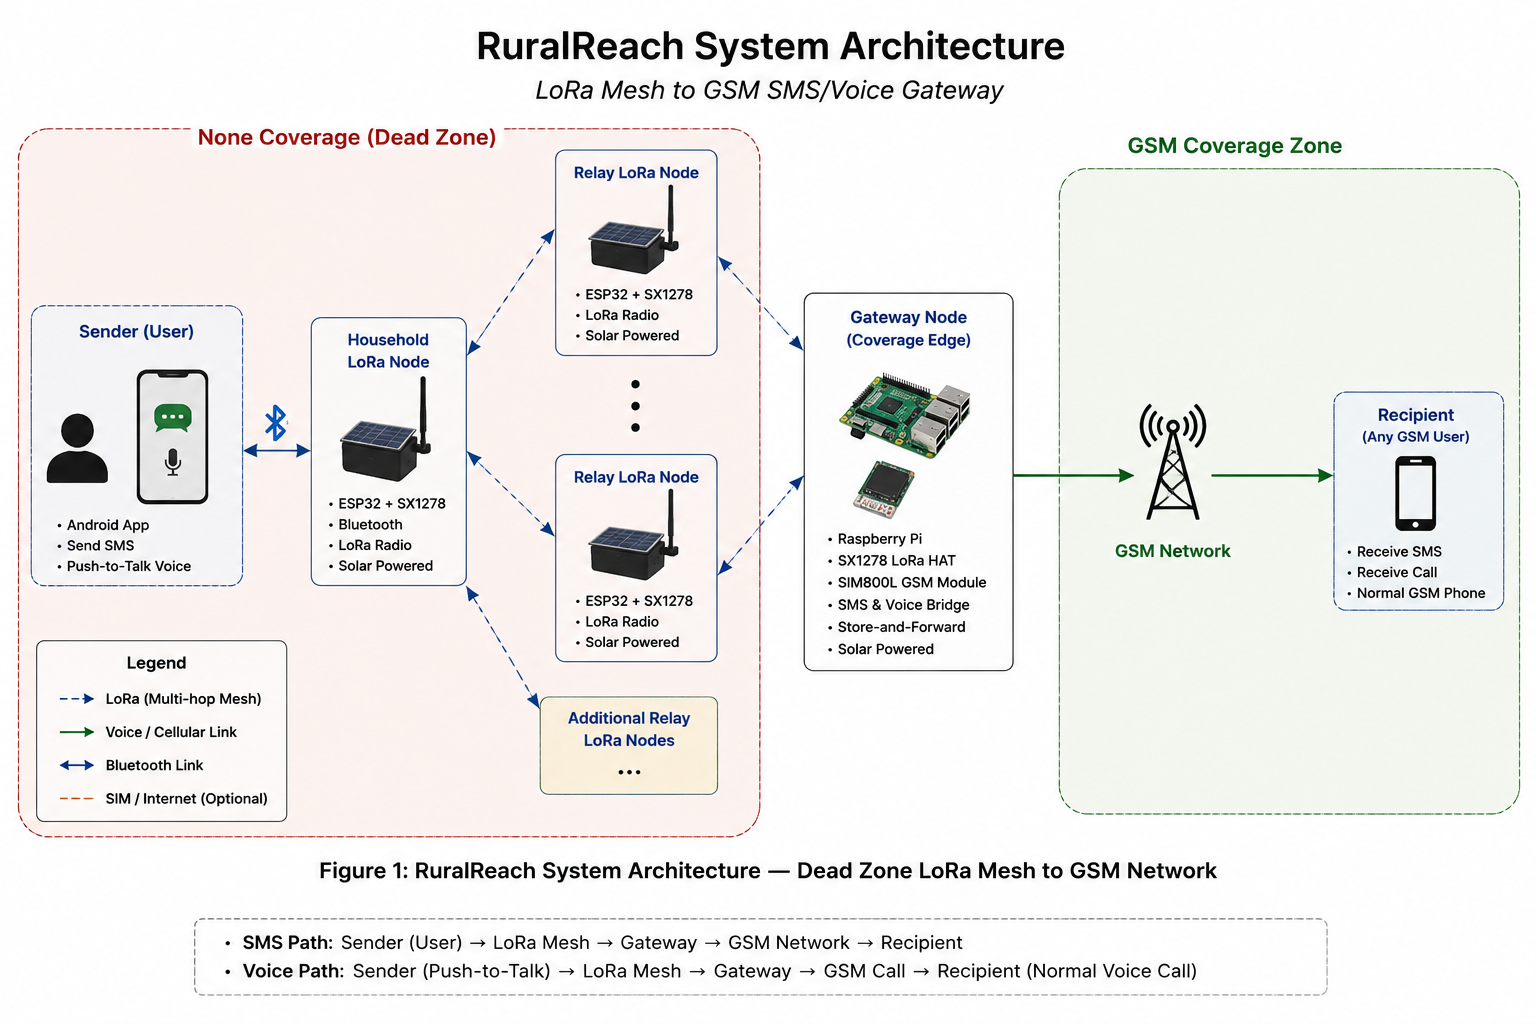
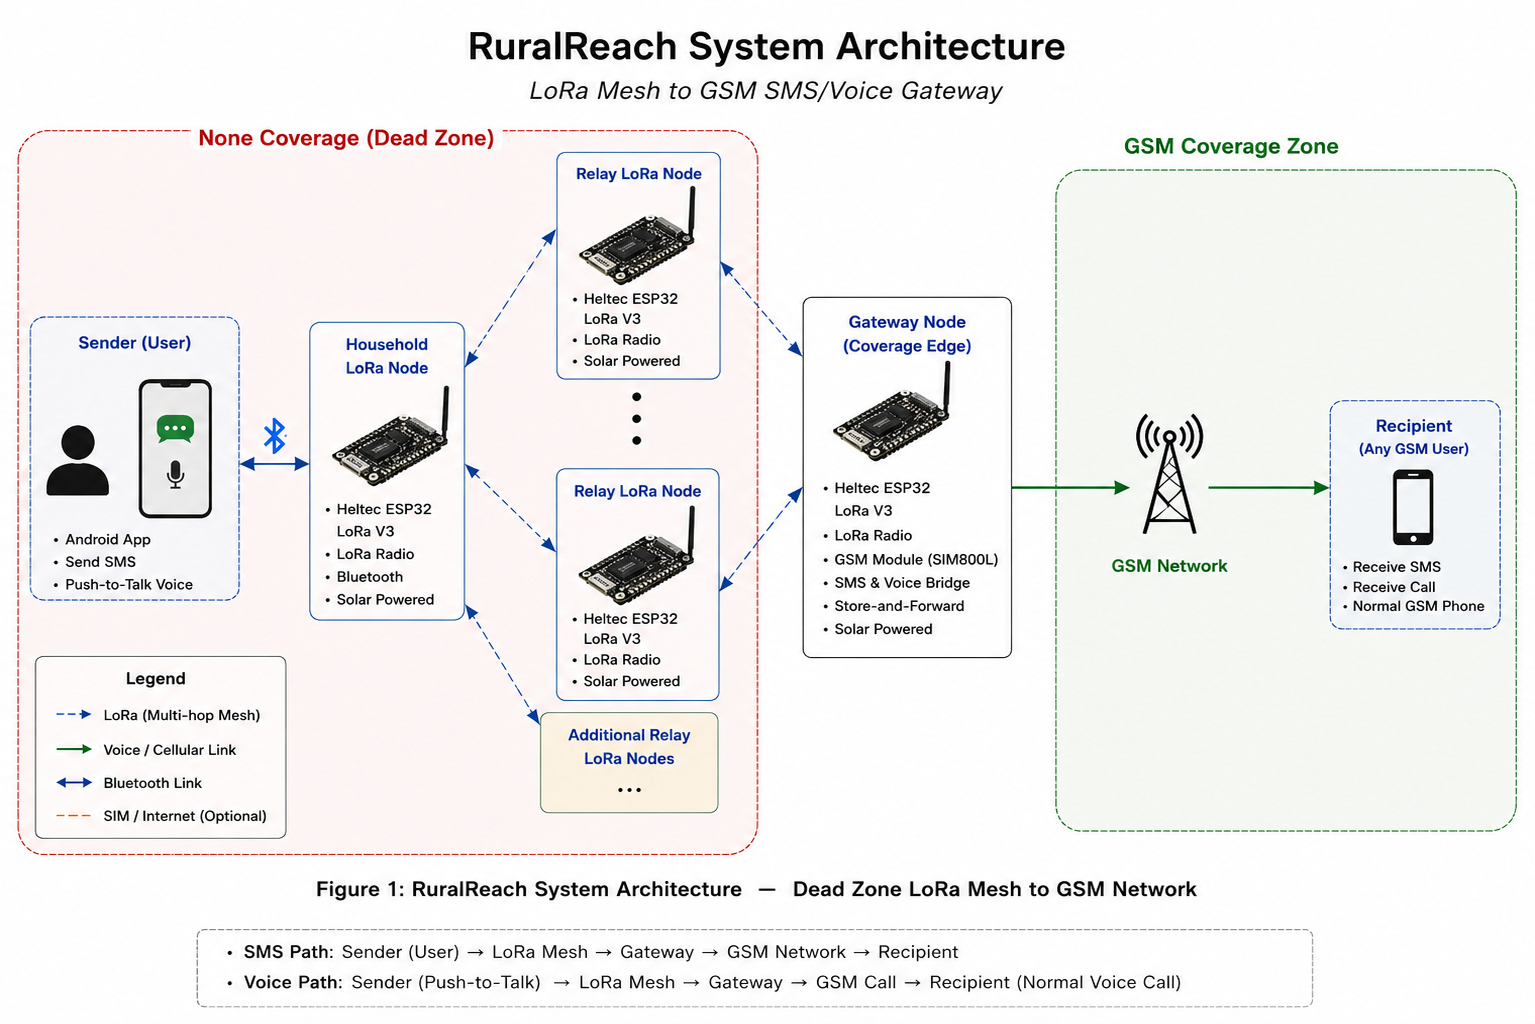
updated readme file

diff --git a/README.md b/README.md
@@ -11,7 +11,7 @@
 |---|---|
 |  **GitHub repository** | https://github.com/ramadhaniwanjenja/RuralREACH |
 |  **5‑minute demo video** | https://www.youtube.com/watch?v=xAKuP7hi1q4 |
-|  **Installable app (APK)** | `ruralreach_app/build/app/outputs/flutter-apk/app-release.apk` (built via `flutter build apk`) |
+|  **Installable app (APK)** | https://drive.google.com/file/d/1Qzdi7x9OukgJJwdIaHv1YReMy6TMlLwY/view?usp=sharing|
 
 >  **How to read this document:** Sections **1–6** describe the product and how to run it,
 > Section **7** is the **deployment plan & execution**, Section **8** is the **testing results
@@ -75,7 +75,7 @@ is compressed with **Codec2 (1300 bps)** to fit inside LoRa's tiny bandwidth.
 
 | Node circuit | Gateway circuit |
 |---|---|
-| ![Node schematic](designs/hardware/LoRa_node/LoRa_node.png) | ![Gateway schematic](designs/hardware/Gateway_node/Gatewaynode.png) |
+| ![Node schematic](designs/hardware/LoRa_node/LoRa_node-Schematic.png) | ![Gateway schematic](designs/hardware/Gateway_node/Gatewaynode_schematic.png) |
 
 **Companion app UI (Figma):**
 
@@ -232,7 +232,7 @@ rm -f sdkconfig && idf.py set-target esp32s3 && idf.py build
 idf.py -p /dev/ttyUSB1 flash monitor
 ```
 
-> ⚡ Power the SIM800L from its **own** 3.7–4.2 V ≥2 A supply with a common ground — under‑powering
+>  Power the SIM800L from its **own** 3.7–4.2 V ≥2 A supply with a common ground — under‑powering
 > it is the #1 cause of a modem that won't answer AT commands.
 
 **Radio settings (must match on both boards):** 433 MHz · SF7 · BW 125 kHz · CR 4/5 · sync word
@@ -275,7 +275,7 @@ Testing used **four complementary strategies**: (a) **unit / self‑test** in fi
 **field / environmental** RF tests. Each test below was run with **different data values** and
 **different hardware configurations** to satisfy the rubric.
 
-> 📸 **Screenshots for each test live in [`docs/screenshots/`](docs/screenshots/)** — drop the files
+>  **Screenshots for each test live in [`docs/screenshots/`](docs/screenshots/)** — drop the files
 > named there and the images below render automatically.
 
 ### Test 1 — App ⇄ Node over Bluetooth LE (integration)